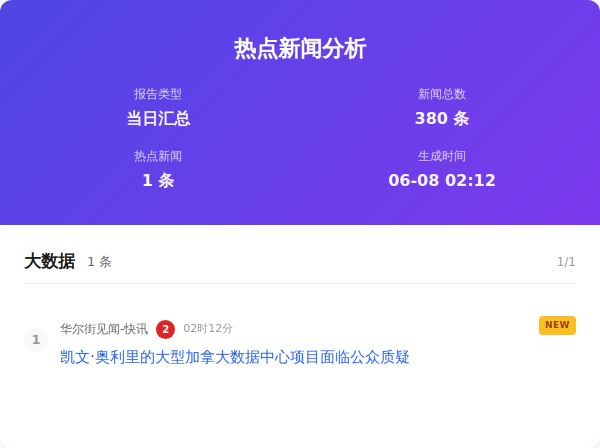
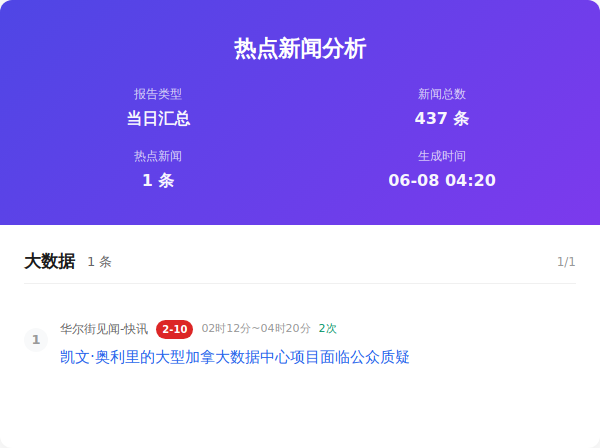
Auto update by GitHub Actions at Mon Jun  8 04:20:44 CST 2026

diff --git a/output/2026年06月08日/html/当日汇总.html b/output/2026年06月08日/html/当日汇总.html
@@ -357,7 +357,7 @@
                     </div>
                     <div class="info-item">
                         <span class="info-label">新闻总数</span>
-                        <span class="info-value">380 条</span>
+                        <span class="info-value">437 条</span>
                     </div>
                     <div class="info-item">
                         <span class="info-label">热点新闻</span>
@@ -365,7 +365,7 @@
                     </div>
                     <div class="info-item">
                         <span class="info-label">生成时间</span>
-                        <span class="info-value">06-08 02:12</span>
+                        <span class="info-value">06-08 04:20</span>
                     </div>
                 </div>
             </div>
@@ -379,11 +379,11 @@
                         </div>
                         <div class="word-index">1/1</div>
                     </div>
-                    <div class="news-item new">
+                    <div class="news-item ">
                         <div class="news-number">1</div>
                         <div class="news-content">
                             <div class="news-header">
-                                <span class="source-name">华尔街见闻-快讯</span><span class="rank-num top">2</span><span class="time-info">02时12分</span>
+                                <span class="source-name">华尔街见闻-快讯</span><span class="rank-num top">2-10</span><span class="time-info">02时12分~04时20分</span><span class="count-info">2次</span>
                             </div>
                             <div class="news-title"><a href="https://wallstreetcn.com/livenews/3115599" target="_blank" class="news-link">凯文·奥利里的大型加拿大数据中心项目面临公众质疑</a>
                             </div>